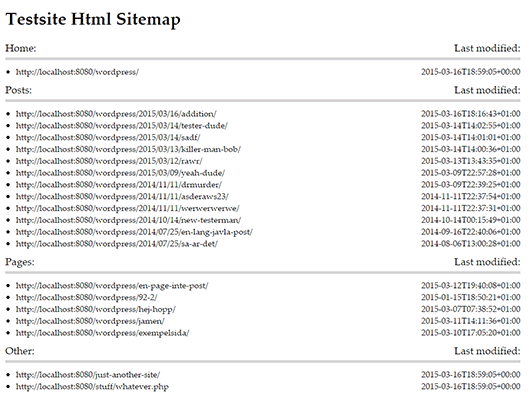
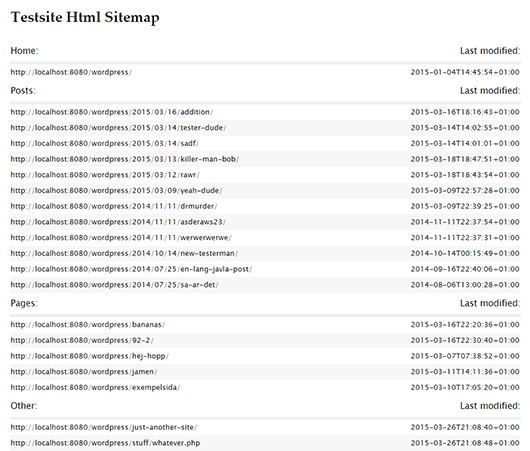
New update on the way
git-svn-id: https://plugins.svn.wordpress.org/simple-wp-sitemap/trunk@1121726 b8457f37-d9ea-0310-8a92-e5e31aec5664

Changed region(s): [[0.0, 0.0914, 0.9962, 1.0], [0.0, 0.0, 0.3623, 0.0914]]

diff --git a/css/html.css b/css/html.css
@@ -4,43 +4,57 @@
 }
 body{
     font-family: "Lucida Sans Unicode", "Lucida Grande", sans-serif;
-    font-size: 14px;
+    font-size: 13px;
+    background: #fff;
 }
 h1{
     font-family: "Palatino Linotype", "Book Antiqua", Palatino, serif;
+    margin: 0 0.1% 25px 0.1%;
+    word-wrap: break-word;
 }
 a{
     text-decoration: none;
-    color: black;
-    word-break: break-all;
+    color: #000;
     transition: all 0.3s;
     display: inline-block;
+    word-wrap: break-word;
     vertical-align: top;
     max-width: 75%;
 }
 a:hover{
-    background: whitesmoke;
+    background: #f8f8f8;
+}
+a:active, a:focus{
+    color: #0000ff;
 }
 ul{
-    padding: 10px 0 10px 20px;
+    list-style-type: none;
+    padding: 0;
 }
-h1{
-    margin: 20px 0;
+li:nth-child(2n){
+    background: #f8f8f8;
 }
 #wrapper{
     max-width: 1080px;
-    padding: 0 2% 40px 2%;
-    margin: 0 auto;
+    padding: 15px 2% 40px 2%;
+    margin: 20px auto;
+}
+ul a, .date{
+    padding: 4px 0.1%;
 }
 .date, .header-date{
     float: right;
 }
+.date{
+    display: inline-block;
+}
 .header{
     overflow: auto;
     clear: left;
-    padding-bottom: 5px;
-    border-bottom: 5px solid lightgray;
+    padding: 7px 0.1% 7px 0.1%;
+    border-bottom: 5px solid #f1f1f1;
     font-size: 1.2em;
+    width: 99.8%;
 }
 .header-txt{
     float: left;
@@ -50,27 +64,37 @@ h1{
     text-align: right;
     font-size: 0.8em;
     margin-top: 25px;
+    padding-right: 0.1%;
+    box-sizing: border-box;
 }
 @media screen and (max-width: 960px){
-    a{
+    #wrapper{
+        padding-left: 0%;
+        padding-right: 0%;
+    }
+    h1{
+        padding-left: 7px;
+        padding-right: 7px;
+    }
+    ul a{
         max-width: 100%;
-    }
-    ul{
-        list-style-type: none;
-        padding: 0;
-    }
-    li{
-        border-bottom: 1px solid lightgray;
-    }
-    li:nth-child(2n){
-        background: whitesmoke;
-    }
+        width: 100%;
+        padding: 4px 7px 2px 7px;
+        box-sizing: border-box;
+    }    
     .date{
         float: none;
-        display: block;
+        padding: 0 7px 4px 7px;
+    }
+    .header{
+        padding: 5px 7px;
+        width: auto;
     }
     .header-date{
         float: none;
         clear: left;
+    }
+    #attr{
+        padding-right: 7px;
     }
 }

diff --git a/css/xml.css b/css/xml.css
@@ -8,11 +8,11 @@ url{
     display: block;
     overflow: auto;
     padding: 5px;
-    font-size: 0.8em;
-    word-break: break-all;
+    font-size: 13px;
+    word-wrap: break-word;
 }
 url:nth-child(2n+1){
-    background: whitesmoke;
+    background: #f8f8f8;
 }
 loc{
     float: left;

diff --git a/simpleWpMapOptions.php b/simpleWpMapOptions.php
@@ -7,6 +7,7 @@ class SimpleWpMapOptions {
 	
 	// Updates the settings/options
 	public function setOptions($otherUrls, $blockUrls, $attrLink, $categories, $tags, $authors){
+		date_default_timezone_set(get_option('timezone_string'));
 		update_option('simple_wp_other_urls', $this->addUrls($otherUrls, get_option('simple_wp_other_urls')));		
 		update_option('simple_wp_block_urls', $this->addUrls($blockUrls));
 		update_option('simple_wp_attr_link', $attrLink);

diff --git a/simpleWpMapBuilder.php b/simpleWpMapBuilder.php
@@ -189,6 +189,7 @@ class SimpleWpMapBuilder {
 		$html = '';
 		
 		if (!$homePage){ // if homepage isn't found in the query add it here (for instance if it's not a real "page" it wont be found)
+			date_default_timezone_set(get_option('timezone_string'));
 			$date = date('Y-m-d\TH:i:sP');
 			$xml .= $this->getXml($this->homeUrl, $date);
 			$html .= sprintf("%s\t</ul>\n", $this->getHtml($this->homeUrl, $date));

diff --git a/simple-wp-sitemap.php b/simple-wp-sitemap.php
@@ -4,7 +4,7 @@
  * Plugin Name: Simple Wp Sitemap
  * Plugin URI: http://www.webbjocke.com/simple-wp-sitemap/
  * Description: An easy, fast and secure plugin that adds both an xml and an html sitemap to your site, which updates and maintains themselves so you dont have to!
- * Version: 1.0.4
+ * Version: 1.0.5
  * Author: Webbjocke
  * Author URI: http://www.webbjocke.com/
  * License: GPLv3
